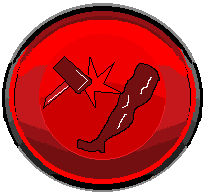
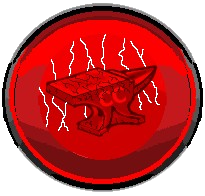
Added framework for specific challenge tracking in post workout.

diff --git a/components/WorkoutSummary.tsx b/components/WorkoutSummary.tsx
@@ -3,7 +3,7 @@
 // Purpose: Give users summary of workout, and display all combos for user to like if they were not able to
 
 import React, { useEffect, useState } from 'react';
-import { View, Text, StyleSheet, TouchableOpacity, ScrollView } from 'react-native';
+import { View, Text, StyleSheet, TouchableOpacity, ScrollView, ViewBase , Image} from 'react-native';
 import {useNavigation} from '@react-navigation/native';
 import { RootStackParamList } from '../utilities/StackNavigation';
 import { useRoute, RouteProp } from '@react-navigation/native';
@@ -12,7 +12,7 @@ import { sortCounts } from '../utilities/SortData';
 import LinearGradient from 'react-native-linear-gradient';
 import Animated, { useSharedValue, useAnimatedStyle, withTiming } from 'react-native-reanimated';;
 import { scheduleOnRN } from 'react-native-worklets';
-import { updateChallenge } from '../utilities/Challenges';
+import { getChallengeValues, guidedWorkoutChallenges, medalImages, metrics, updateChallenge } from '../utilities/Challenges';
 
 export type info = {name: string, count: number};
 
@@ -65,6 +65,15 @@ const WorkoutSummary = () => {
         })
       });
     }
+
+  const [challengeValues, setChallengeValues] = useState<metrics[]>([])
+  useEffect(() => {
+    const grabChallengeInfo = async () => {
+      const db = await getDBConnection();
+      setChallengeValues(await getChallengeValues(db, guidedWorkoutChallenges))
+    }
+    grabChallengeInfo();
+  }, [])
 
   useEffect(() => {
     const fetchData = async () => {
@@ -137,8 +146,31 @@ const WorkoutSummary = () => {
   });
   const [btnText, setBtnText] = useState(btnTextInit);
 
+  let startMetrics = route.params.startMetrics;
+  console.log(startMetrics);
+  console.log(challengeValues);
+
     return (
         <LinearGradient colors={['black', '#04007D']} style={styles.screen}>
+          {startMetrics != challengeValues &&
+            <LinearGradient colors={['gray', 'black']} style={{width: '95%', height: '95%', alignSelf: 'center', position: 'absolute', zIndex: 999, flexDirection: 'row', flexWrap: 'wrap',
+              justifyContent: 'center'
+            }}>
+              {challengeValues.map((item, index) => (
+                <View key={index} style={{width: startMetrics.find(val => val.name == item.name) && startMetrics[startMetrics.findIndex(val => val.name == item.name)].value != item.value ? '30%' : 0}}>
+                {startMetrics.find(val => val.name == item.name) && startMetrics[startMetrics.findIndex(val => val.name == item.name)].value != item.value && 
+                  <View style={{alignItems: 'center', borderColor: 'black', borderWidth: 1, borderRadius: 5, width: '100%'}}>
+                    <Image style={{height: 100, width: 100, resizeMode: 'contain'}} source={item.tier ? medalImages[medalImages.findIndex(m => m.name == JSON.parse(item.name)[0])].items[item.tier] || require('../assets/locked.png') : medalImages[medalImages.findIndex(m => m.name == item.name)].items[0] || require('../assets/locked.png')}/>
+                    <Text style={[styles.itemText, {textAlign: 'center'}]}>{item.tier ? JSON.parse(item.name)[item.tier] : item.name}</Text>
+                    <View style={{width: '75%', backgroundColor: 'white', height: 20, borderWidth: 1, borderColor: 'black'}}>
+                      <View style={{width: '50%', backgroundColor: 'red', height: '100%', position: 'absolute'}}/>
+                    </View>
+                  </View>
+                }
+                </View>
+              ))}
+            </LinearGradient>
+          }
           <LinearGradient colors={['#04007D', 'red']} style={styles.head}>
             <View style={{alignItems: 'center', justifyContent: 'center'}}>
               <Text style={[styles.headText, {textAlign: 'center', paddingStart: '1%', paddingEnd: '1%', color: 'white'}]}>Combo Creator</Text>

diff --git a/utilities/Challenges.ts b/utilities/Challenges.ts
@@ -4,6 +4,45 @@
 
 import type { SQLiteDatabase } from 'react-native-sqlite-storage';
 
+export type metrics = {name: string, value: number, tier?: number};
+
+export const guidedWorkoutChallenges = [
+  JSON.stringify(['Jabbing Apprentice', 'Intermediate Jabber', 'Master Jabber', 'God-Tier Jabber']),
+  JSON.stringify(['Cross Trainee','Cross Examiner','Crossing Menace','THE Crosser']),
+  JSON.stringify(['Newbie Hooker', 'Certified Hooker', 'Captain Hooks','Hooked on Destruction']),
+  JSON.stringify(['Uppercut Rookie','Chin Checker','Send Them to Orbit','Peek-a-boo-er']),
+  JSON.stringify(['Overhand Intern','Overhand Enthusiast','Meteor Fist Overhand',"You're gonna kill someone kid"]),
+  JSON.stringify(['Amateur Ridger','Ridge Curious','Sideways Violence','Chop Supreme']),
+  JSON.stringify(['Sidekick','Anti-hero','Bona-fide Superhero','Super-DUPER man']),
+  'Banshee Crusher',
+  JSON.stringify(['Open-Handed Apprentice','Respectful Violence','High-Five of Doom','Palm of Judgment']),
+  JSON.stringify(['Basic Snapper','Whiplash Enthusiast','Blink-and-You-Missed-It','Oof ouch my chin']),
+  JSON.stringify(['Heel Turn','Backstabber','Eyes-in-the-Back-Kicker','No Look. All Damage.']),
+  JSON.stringify(['Sleeper Teeper','Season for Teepin','Personal Space Enjoyer','Teepzilla']),
+  JSON.stringify(['Elbow Rookie','Close-Range Negotiator','Sharp Conversations','Built Different (and Dangerous)']),
+  'Tatsumaki',
+  'Nut Buster',
+  JSON.stringify(['Two-Piece Starter',"Can't guard em both",'A PAIR of knuckle sandwiches','Kung Fu Panda']),
+  'Legs of Steel',
+  'Ultra Instinct',
+]
+
+// function for getting all values of given challenges for end of workout summary animations and such
+export const getChallengeValues = async (db: SQLiteDatabase, names: string[]) => {
+  let query = `SELECT name, value, tier FROM Challenges WHERE name = (?)`
+  for (let x = 0; x < names.length; x++) {
+    if (x > 0) {
+      query += " OR name = (?)"
+    }
+  }
+  const [result] = await db.executeSql(query, names)
+  const values : metrics[] = []
+  for (let x = 0; x < result.rows.length; x++) {
+    values.push({name: result.rows.item(x).name, value: result.rows.item(x).value, tier: result.rows.item(x).tier});
+  }
+  return values;
+}
+
 // function for getting highest strike count for challenge updating
 export const setHighestStrikeCount = async (db: SQLiteDatabase) => {
   const [result] = await db.executeSql(`SELECT * FROM challenges WHERE tier IS NOT NULL`);

diff --git a/utilities/BuildWorkout.tsx b/utilities/BuildWorkout.tsx
@@ -104,7 +104,6 @@ export function BuildWorkout(props: {
 
     updateChallenge(db, 'I fear not the man who has practiced 1000 strikes', temp.length)
 
-
     let checks = {
       jab : 0,
       cross : 0,
@@ -247,8 +246,7 @@ export function BuildWorkout(props: {
         updateChallenge(db, JSON.stringify(['Amateur Ridger','Ridge Curious','Sideways Violence','Chop Supreme']), checks.ridgehand);
     }
     if (checks.superman > 0) {
-        updateChallenge(db, JSON.stringify(['Sidekick','Anti-hero','Bona-fide Superhero','Super-DUPER man'
-  ]), checks.superman);
+        updateChallenge(db, JSON.stringify(['Sidekick','Anti-hero','Bona-fide Superhero','Super-DUPER man']), checks.superman);
         updateChallenge(db, 'Banshee Crusher', checks.superman);
     }
     if (checks.palmstrike > 0) {
@@ -261,10 +259,10 @@ export function BuildWorkout(props: {
       updateChallenge(db, JSON.stringify(['Heel Turn','Backstabber','Eyes-in-the-Back-Kicker','No Look. All Damage.']), checks.heelkick);
     }
     if (checks.teep > 0) {
-      updateChallenge(db,JSON.stringify(['Sleeper Teeper','Season for Teepin','Personal Space Enjoyer','Teepzilla']),checks.teep);
+      updateChallenge(db, JSON.stringify(['Sleeper Teeper','Season for Teepin','Personal Space Enjoyer','Teepzilla']),checks.teep);
     }
     if (checks.elbow > 0) {
-      updateChallenge(db,JSON.stringify(['Elbow Rookie','Close-Range Negotiator','Sharp Conversations','Built Different (and Dangerous)']),checks.elbow);
+      updateChallenge(db, JSON.stringify(['Elbow Rookie','Close-Range Negotiator','Sharp Conversations','Built Different (and Dangerous)']),checks.elbow);
     }
     if (checks.spinning > 0) {
       updateChallenge(db, 'Tatsumaki', checks.spinning);
@@ -347,6 +345,8 @@ export function BuildWorkout(props: {
         const fetchData = async () => {
             // if this is configured to be favorite workout data pull is unnecessary
             const db = await getDBConnection();
+            // grab values of all challenge data for workout summary stat animation
+
             if (strikeSetId != "-999") {
                 const set = await getStrikeSetByID(db, workout.getStrikeSetId());
                 workout.strikes = JSON.parse(set.strikes);

diff --git a/components/WorkoutExecution.tsx b/components/WorkoutExecution.tsx
@@ -10,7 +10,7 @@ import { StackNavigationProp } from '@react-navigation/stack';
 import BuildWorkout from '../utilities/BuildWorkout';
 import { getDBConnection, addRecentWorkout } from '../utilities/DefaultInfo';
 import LinearGradient from 'react-native-linear-gradient';
-import { updateChallenge, setHighestStrikeCount } from '../utilities/Challenges';
+import { updateChallenge, setHighestStrikeCount, getChallengeValues, guidedWorkoutChallenges, metrics } from '../utilities/Challenges';
 
 var combos: string[][];
 var favIndex: number[];
@@ -41,7 +41,19 @@ const WorkoutExecution = () => {
   const [timeMinutes, setTimeMinutes] = useState("000")
   const [workoutActive, setWorkoutActive] = useState<boolean>(true);
 
+  const [startMetrics, setStartMetrics] = useState<metrics[]>([{name:"", value: 1}]);
+ 
+
   const glowAnim = useRef(new Animated.Value(0)).current;  
+
+ // use effect for getting challenge values at the start of the workout
+  useEffect(() => {
+    const fetchData = async () => {
+      const db = await getDBConnection();
+      setStartMetrics(await getChallengeValues(db, guidedWorkoutChallenges))
+    }
+    fetchData();
+  }, [])
 
   // use effect for ending workout and navigating to summary page
   useEffect(() => {
@@ -57,7 +69,7 @@ const WorkoutExecution = () => {
       }
       fetchData();
       // if strike set id = -999 workout is by favorite rather than strike set
-      nav.replace('WorkoutSummary', { time: timeMinutes + ":" + timeSeconds, combos: combos, favorited: favIndex, bf: route.params.strikeSetId == "-999" ? true : false, count: count});
+      nav.replace('WorkoutSummary', { time: timeMinutes + ":" + timeSeconds, combos: combos, favorited: favIndex, bf: route.params.strikeSetId == "-999" ? true : false, count: count, startMetrics: startMetrics});
     }
   }, [workoutActive])
 

diff --git a/utilities/StackNavigation.tsx b/utilities/StackNavigation.tsx
@@ -17,6 +17,7 @@ import TimedWorkoutCustomization from '../components/TimedWorkoutCustomization';
 import TimedWorkoutExecution from '../components/TimedWorkoutExecution';
 import Challenges from '../components/Challenges';
 import Tutorial from '../components/Tutorial';
+import { metrics } from './Challenges';
 
 // type for root navigation stack
 export type RootStackParamList = {
@@ -27,7 +28,7 @@ export type RootStackParamList = {
   FavoritesOverview: {favorite: any};
   StrikeSetsCustomization: {set: any};
   StatusReport: undefined;
-  WorkoutSummary: {time: string, combos: string[][], favorited: number[], bf: boolean, count: number}
+  WorkoutSummary: {time: string, combos: string[][], favorited: number[], bf: boolean, count: number, startMetrics: metrics[] }
   InWorkout: {strikeSetId: string, comboCount: number, throwCount: number, strikesPerCombo: number, timePerStrike: number, pbc?: number, pwrc?: number, strikes?: any}
   TimedWorkoutCustomization: undefined;
   TimedWorkoutExecution: {rounds: number, workTime: string, restTime: string,favorites?: any[]};
